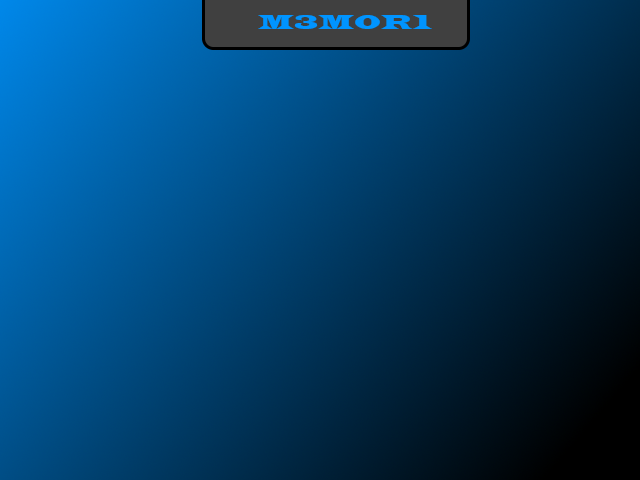
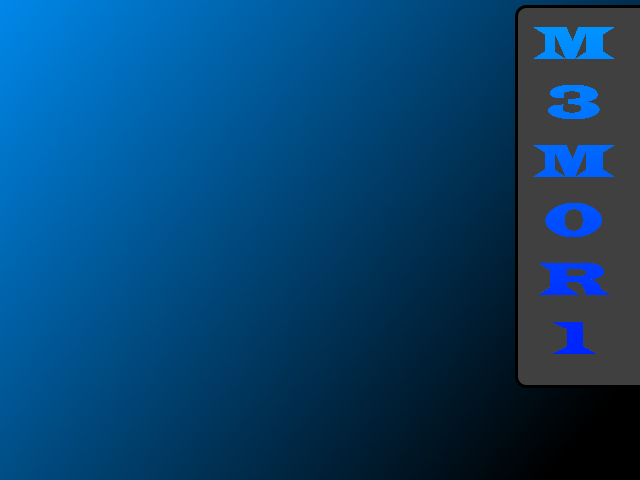
Majdnem kész a exit gombot át kell helyezni!

Changed region(s): [[0.7812, 0.0, 1.0, 0.8125], [0.3125, 0.0, 0.75, 0.125]]

diff --git a/core/src/hu/csakennijottunk/m3m0r1/CreditsStage.java b/core/src/hu/csakennijottunk/m3m0r1/CreditsStage.java
@@ -11,18 +11,53 @@ import hu.csanyzeg.master.MyBaseClasses.Timers.Timer;
 import hu.csanyzeg.master.MyBaseClasses.UI.MyLabel;
 
 public class CreditsStage extends MyStage {
+
     public CreditsStage(MyGame game) {
         super(new ExtendViewport(640, 480), game);
         addBackButtonScreenBackByStackPopListener();
-
         Label.LabelStyle labelStyle = new Label.LabelStyle();
         labelStyle.font = game.getMyAssetManager().getFont("latinwd.ttf");
-        labelStyle.fontColor = Color.BROWN;
+        labelStyle.fontColor = Color.BLUE;
 
-        MyLabel label = new MyLabel(game, "Készítők", labelStyle);
+addActor(new Creditbackground(game));
+
+        MyLabel label = new MyLabel(game, "Creators:", labelStyle);
         label.setFontScale(0.5f);
-        label.setPosition(20,100);
+        label.setPosition(20,350);
         addActor(label);
+
+        label = new MyLabel(game, "Kele Lorand", labelStyle);
+        label.setFontScale(0.5f);
+        label.setPosition(20,320);
+        addActor(label);
+
+        label = new MyLabel(game, "Fellner Milan", labelStyle);
+        label.setFontScale(0.5f);
+        label.setPosition(20,290);
+        addActor(label);
+
+        label = new MyLabel(game, "Zsebok David Ferenc", labelStyle);
+        label.setFontScale(0.5f);
+        label.setPosition(20,260);
+        addActor(label);
+
+        label = new MyLabel(game, "Kancsal Mate", labelStyle);
+        label.setFontScale(0.5f);
+        label.setPosition(20,230);
+        addActor(label);
+
+        label = new MyLabel(game, "Teacher:", labelStyle);
+        label.setFontScale(0.5f);
+        label.setPosition(20,200);
+        addActor(label);
+
+        label = new MyLabel(game, "Tuske Balazs", labelStyle);
+        label.setFontScale(0.5f);
+        label.setPosition(20,170);
+        label.setColor(0,50,100,100);
+        addActor(label);
+
+
 
         addActor(new ExitButton(game));
 

diff --git a/core/src/hu/csakennijottunk/m3m0r1/GameStage.java b/core/src/hu/csakennijottunk/m3m0r1/GameStage.java
@@ -15,6 +15,7 @@ import hu.csanyzeg.master.MyBaseClasses.Timers.Timer;
 import hu.csanyzeg.master.MyBaseClasses.UI.MyLabel;
 
 public class GameStage extends MyStage {
+    private final Object ExitButton = null;
     Aktor aktor;
     Aktor aktor2;
     GameStage firstStage;
@@ -25,7 +26,7 @@ public class GameStage extends MyStage {
         for (int i = 0; i < cardIDNumber * 2; i++) {
             cards[i] = i / 2;
         }
-
+        addActor(new BackgroundGame(game));
         RandomXS128 randomXS128 = new RandomXS128();
 
         for (int i = 0; i < cards.length * 2; i++) {
@@ -168,6 +169,12 @@ public class GameStage extends MyStage {
         });
         addTimer(secTimer);
 
-        addActor(new ExitButton(game));
+        ExitButton exitButton = new ExitButton(game);
+        addActor(new ExitButton(game ));
+        exitButton.setPosition(640,480);
+
+
+
+
     }
 }

diff --git a/core/src/hu/csakennijottunk/m3m0r1/BackgroundGame.java b/core/src/hu/csakennijottunk/m3m0r1/BackgroundGame.java
@@ -1,0 +1,17 @@
+package hu.csakennijottunk.m3m0r1;
+
+import com.badlogic.gdx.Game;
+
+import hu.csanyzeg.master.MyBaseClasses.Game.MyGame;
+import hu.csanyzeg.master.MyBaseClasses.Scene2D.OneSpriteStaticActor;
+
+public class BackgroundGame extends OneSpriteStaticActor {
+    public BackgroundGame(MyGame game) {
+        super(game, "gamebackground.png");
+        this.setSize(640,480);
+        this.zIndex= 0;
+    }
+
+
+}
+

diff --git a/core/src/hu/csakennijottunk/m3m0r1/Creditbackground.java b/core/src/hu/csakennijottunk/m3m0r1/Creditbackground.java
@@ -1,0 +1,11 @@
+package hu.csakennijottunk.m3m0r1;
+
+import hu.csanyzeg.master.MyBaseClasses.Game.MyGame;
+import hu.csanyzeg.master.MyBaseClasses.Scene2D.OneSpriteStaticActor;
+
+public class Creditbackground extends OneSpriteStaticActor {
+    public Creditbackground(MyGame game) {
+        super(game,"creditsbackground.png");
+        setPositionCenter();
+    }
+}
